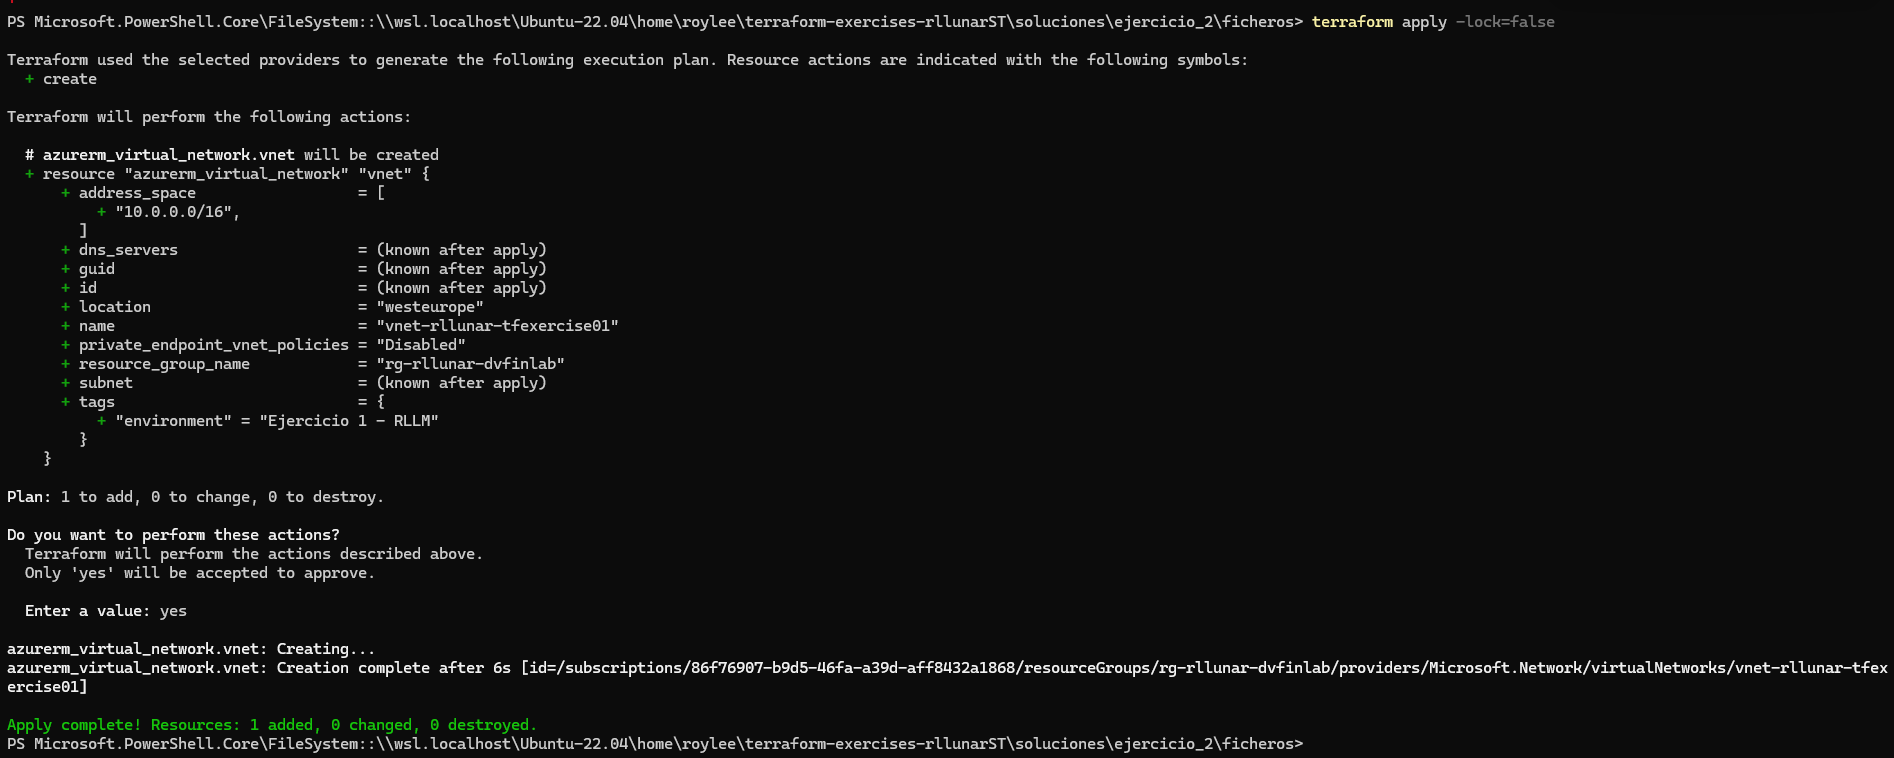
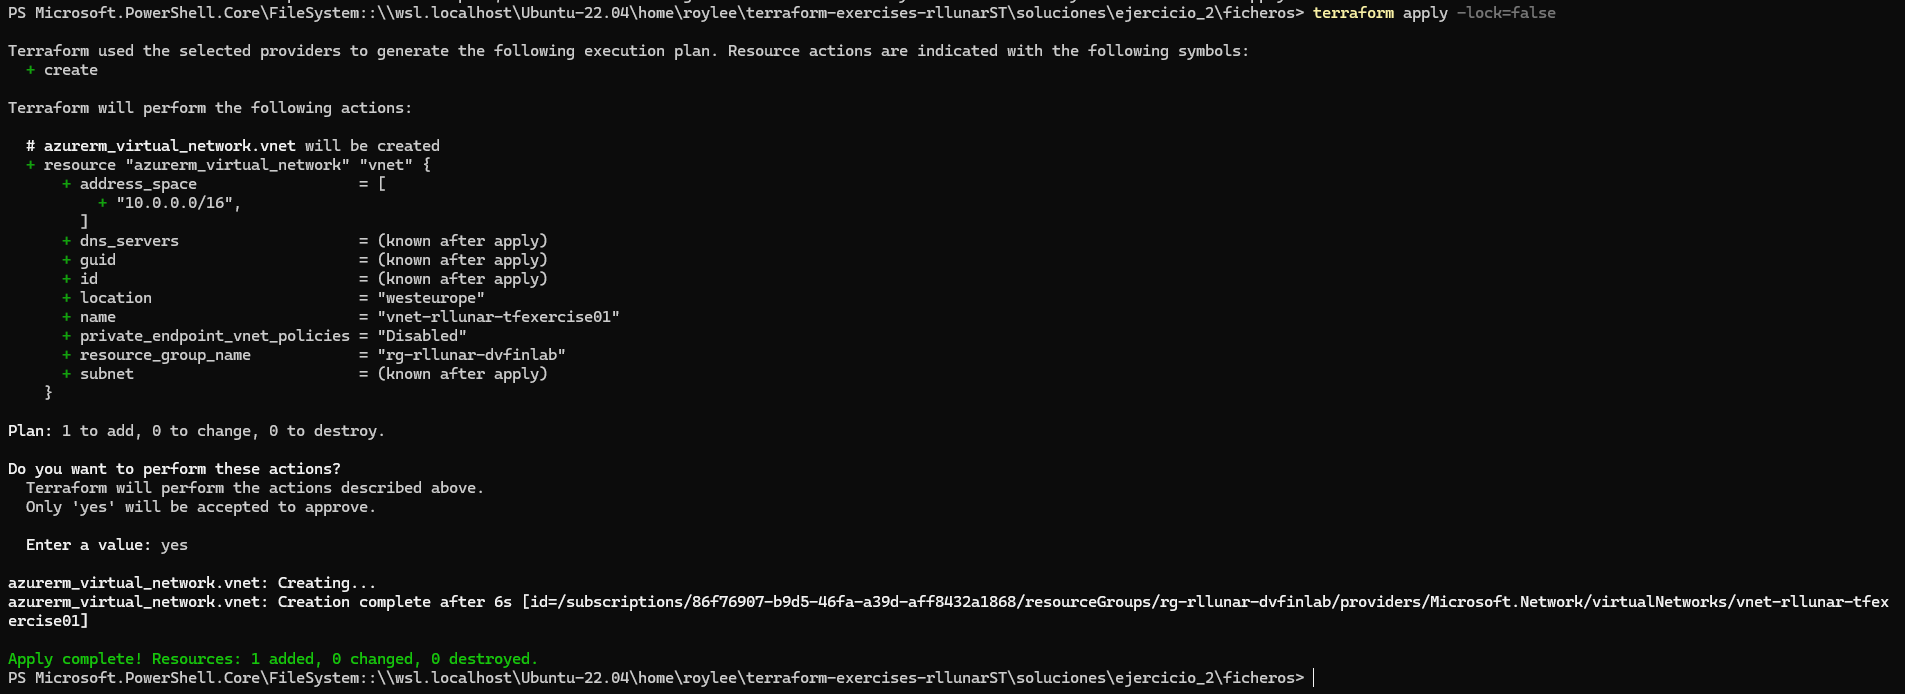
Ejercicio 2 modificado y Ejercicio 3 finalizado y documentado

Changed region(s): [[0.0, 0.6052, 0.9968, 0.9986], [0.0, 0.1513, 0.3427, 0.5749], [0.0, 0.0, 0.8099, 0.121]]

diff --git a/soluciones/ejercicio_3/README.md b/soluciones/ejercicio_3/README.md
@@ -1,0 +1,126 @@
+# Ejercicio 03
+
+## Enunciado
+
+Modifica el ejercicio anterior e incluye tres nuevas variables:
+
+- `owner_tag`:
+  - Tipo: `string`
+  - Obligatoria.
+  - Describe el propietario de la VNet.
+- `environment_tag`:
+  - Tipo: `string`
+  - Obligatoria.
+  - Describe el entorno de la VNet (`dev`, `test`, `prod`, etc).
+- `vnet_tags`:
+  - Tipo: `mapa de strings`
+  - Opcional, siendo su valor por defecto un mapa vacío.
+  - Describe los tags adicionales que se aplicarán a la VNet.
+
+El módulo debe utilizar estas variables para formar los tags de la VNet, incluyendo los tags obligatorios `owner` y `environment` y los tags adicionales que se especifiquen en `vnet_tags`. Si en `vnet_tags` se especifica un tag con el mismo nombre que `owner` o `environment`, se debe sobreescribir el valor de estos últimos por el valor de `vnet_tags`.
+
+Despliega el recurso en Azure utilizando el módulo desarrollado, documentando el proceso en el entregable.
+
+Al finalizar el ejercicio, ejecuta el comando `terraform destroy` para eliminar todos los recursos creados y puedas empezar en el siguiente ejercicio sin conflictos de recursos preexistentes.
+
+## Solucion
+
+Para este ejercicio tome los ficheros de terraform de la actividad anterior y modifique el fichero `main.tf` para incluir las nuevas variables y su uso en la creación de la VNet. El resultado final es el siguiente:
+
+```hcl
+provider "azurerm" {
+  features {}
+}
+
+resource "azurerm_virtual_network" "vnet" {
+  name                = var.vnet_name
+  location            = var.location
+  resource_group_name = var.existent_resource_group_name
+  address_space       = var.vnet_address_space
+
+  tags = merge(
+    {
+      owner       = var.owner_tag
+      environment = var.environment_tag
+    },
+    var.vnet_tags
+  )
+}
+```
+
+Lo que merge es fusionar 2 mapas en uno solo, en este caso el primero es el mapa de tags obligatorios y el segundo es el mapa de tags opcionales. Si en el segundo mapa hay alguna clave que ya existe en el primer mapa, se sobreescribirá el valor de esa clave por el segundo valor.
+
+A su vez tambien modifique el fichero `variables.tf` para incluir las nuevas variables y su uso en la creación de la VNet. El resultado final es el siguiente:
+
+```hcl
+variable "existent_resource_group_name" {
+  description = "Nombre del Resource Group ya existente en Azure"
+  type        = string
+}
+
+variable "vnet_name" {
+  description = "Nombre de la VNET a crear"
+  type        = string
+}
+
+variable "vnet_address_space" {
+  description = "Espacio de direcciones de la VNET"
+  type        = list(string)
+}
+
+variable "location" {
+  description = "Localización del despligue de la VNET"
+  type        = string
+  default     = "West Europe"
+}
+
+variable "owner_tag" {
+  description = "Describe el propietario de la VNET"
+  type        = string
+}
+
+variable "environment_tag" {
+  description = "Describe el entorno de la VNET"
+  type        = string
+}
+
+variable "vnet_tags" {
+  description = "Etiquetas de la VNET"
+  type        = map(string)
+  default     = {}
+}
+```
+
+En el fichero `terraform.tfvars` añadí tambien los valores que tendrán cada tag:
+
+```hcl
+existent_resource_group_name = "rg-rllunar-dvfinlab"
+vnet_name                    = "vnet-rllunar-tfexercise01"
+vnet_address_space           = ["10.0.0.0/16"]
+owner_tag                   = "rllunar"
+environment_tag            = "dev"
+vnet_tags                   = {
+  "enterprise" = "stemdo"
+  "environment" = "prod"
+}
+```
+
+Como podemos ver ahora en el fichero definimos en vnet-tags el tag `environment` con el valor `prod` esto hará que al desplegar la VNET el tag `environment` reemplace el valor `dev` por `prod`.
+
+Ahora comenzaremos a desplegar la VNET.
+
+![Iniciando con terraform init](../../datos/imgs/eje3/img3_1.png)
+
+![Activando el plan de ejecución con terraform plan](../../datos/imgs/eje3/img3_2.png)
+
+Como podemos ver en la imagen la tags se han fusionado correctamente y la tag `environment` tiene el valor `prod` y no el valor `dev`, ahora aplicaremos el plan.
+
+![Aplicando plan](../../datos/imgs/eje3/img3_3.png)
+
+Ahora si nos dirigimos al portal de Azure y buscamos la VNET que hemos creado podemos ver que los tags se han aplicado correctamente.
+
+![Resultado de crear la VNET en el portal de Azure](../../datos/imgs/eje3/img3_4.png)
+
+Por ultimo eliminamos la VNET para evitar conflictos entre recursos.
+
+![Eliminamos la VNET](../../datos/imgs/eje3/img3_5.png)

diff --git a/soluciones/ejercicio_2/README.md b/soluciones/ejercicio_2/README.md
@@ -1,14 +1,5 @@
 # Ejercicio 02
 
-## Objetivo
-
-- Parametrizar un módulo raíz básico de Terraform.
-- Introducción al uso de bloques "data" en Terraform.
-
-## Pre-requisitos
-
-- Disponer de un `resource group` en Azure sobre el que poder desplegar los recursos de este ejercicio.
-
 ## Enunciado
 
 Desarrolla un módulo de terraform que permita desplegar una Virtual Network (VNet) sobre un Resource Group pre-existente en Azure. Para esto, crea los ficheros:
@@ -31,20 +22,13 @@ Despliega el recurso en Azure utilizando el módulo desarrollado, documentando e
 
 Al finalizar el ejercicio, ejecuta el comando `terraform destroy` para eliminar todos los recursos creados y puedas empezar en el siguiente ejercicio sin conflictos de recursos preexistentes.
 
-## Entregables
-
-**IMPORTANTE:** ¡Cuidado con exponer los valores sensibles!
-
-- Documentación del proceso (con capturas de pantalla).
-- Código de Terraform utilizado (como un directorio propio dentro del entregable).
-
-## Proceso
+## Solucion
 
 Para realizar este ejercicio, he creado un fichero `main.tf` donde en el debemos identificar el proveedor con el que vamos a trabajar en este caso `azurerm` y el recurso que vamos a crear que es una `virtual_network`.
 
 Luego tenemos que definir el recurso que vamos a crear, en este caso indicamos que el recurso que necesitamos es un `azurerm_virtual_network` osea una red virtual de Azure. Luego especificamos el nombre que debe tener dentro de terraform que es `vnet` y dentro definimos los campos que necesitará nuestro recurso que son el nombre de la red virtual, la localización donde se va a desplegar, el nombre del grupo de recursos existente y el espacio de direcciones que tendrá la red virtual. Por ultimo definiremos un tag con la inteción de poder identificar el recurso cuando los creemos, podemos observar que el resultado final es el siguiente:
 
-```h
+```hcl
 provider "azurerm" {
   features {}
 }
@@ -54,16 +38,12 @@ resource "azurerm_virtual_network" "vnet" {
   location            = var.location
   resource_group_name = var.existent_resource_group_name
   address_space       = var.vnet_address_space
-
-  tags = {
-    environment = "Ejercicio 1 - RLLM"
-  }
 }
 ```
 
 Con esto ya habremos definido el modulo y sus parametro ahora debemos definir sus variables para ello crearemos un fichero `variables.tf` donde definiremos las variables de entrada para el modulo y su descripcion, lo que haremos es definir todas las variables que hemos utilizado en el fichero `main.tf` junto a su tipo de dato, descripción y valor por defecto (en el caso de la variable location), el resultado será el siguiente:
 
-```h
+```hcl
 variable "existent_resource_group_name" {
   description = "Nombre del Resource Group ya existente en Azure"
   type        = string
@@ -88,7 +68,7 @@ variable "location" {
 
 Ahora por ultimo definiremos el fichero `terraform.tfvars` donde definiremos los valores de las variables que hemos definido anteriormente, el resultado será el siguiente:
 
-```h
+```hcl
 existent_resource_group_name = "rg-rllunar-dvfinlab"
 vnet_name                    = "vnet-rllunar-tfexercise01"
 vnet_address_space           = ["10.0.0.0/16"]
